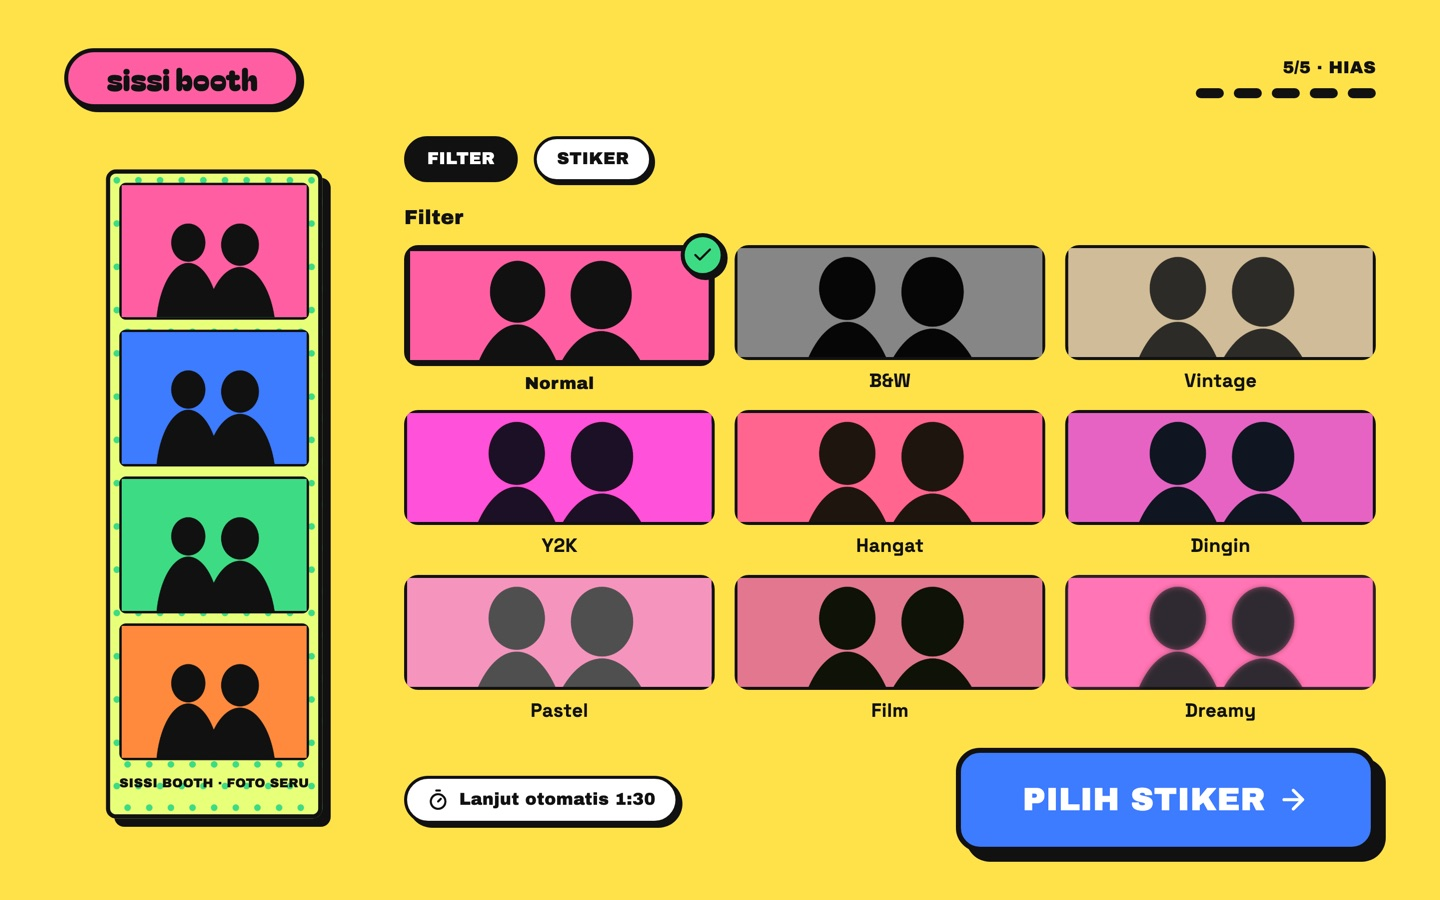
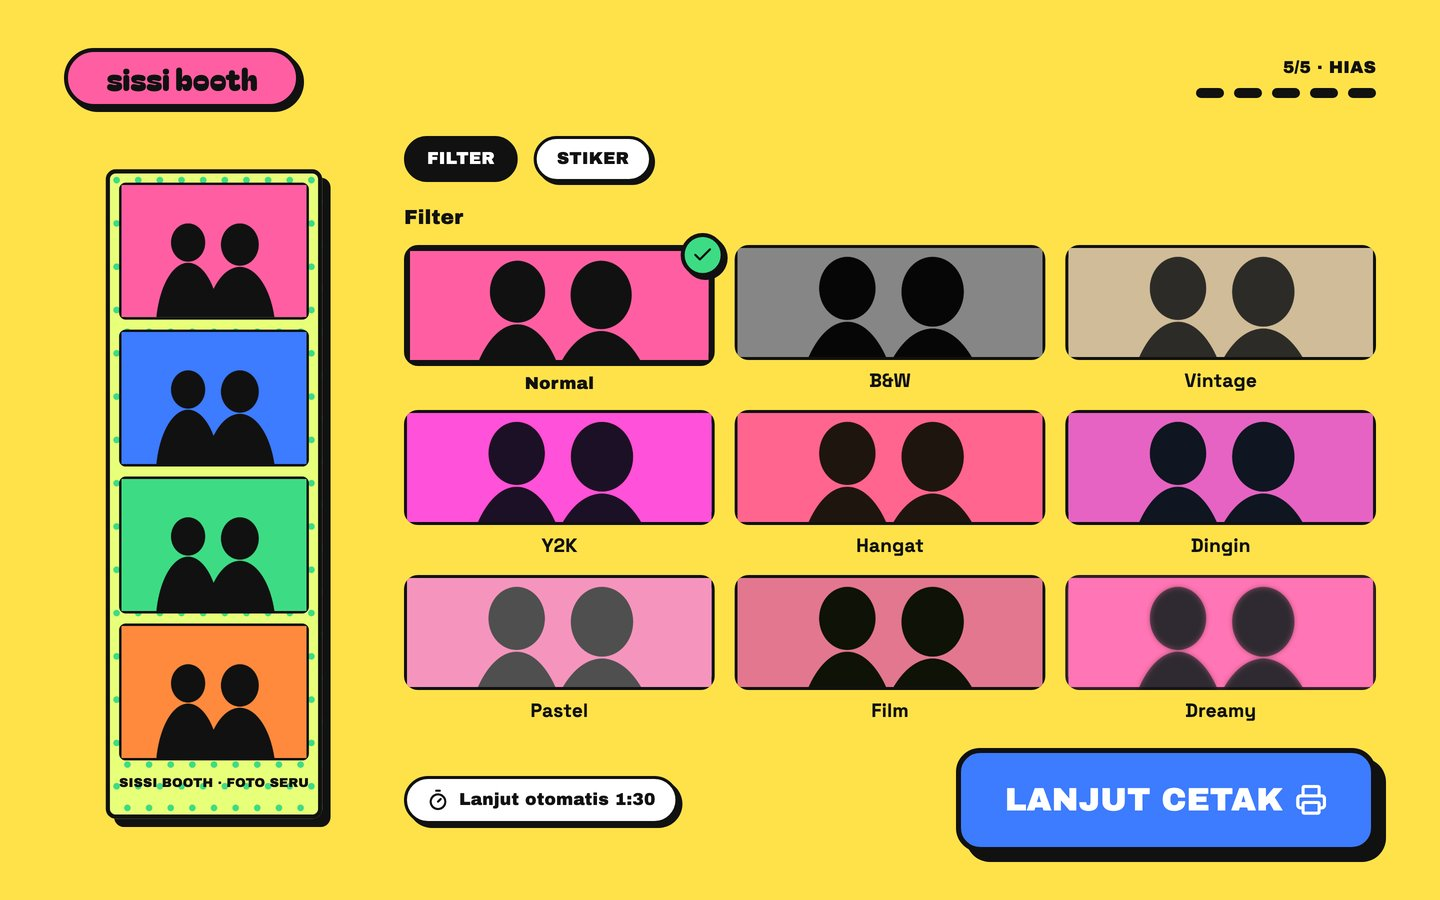
docs(panduan): sesuaikan hias, mode kiosk segera hadir, petunjuk admin

diff --git a/src/constants/guides.ts b/src/constants/guides.ts
@@ -154,7 +154,7 @@ export const guides: Guide[] = [
       {
         id: "hias",
         title: "Hias dengan filter & stiker",
-        body: "Pilih filter, semua foto langsung berubah warna. Lalu ketuk PILIH STIKER dan tempel stiker sesukamu. Beres? Ketuk SELESAI HIAS.",
+        body: "Pilih filter, semua foto langsung berubah warna. Mau stiker? Ketuk tab STIKER di atas dan tempel sesukamu. Beres? Ketuk LANJUT CETAK.",
         shots: [
           img("cara-foto", "hias-filter.jpg", "Layar hias: pilihan filter"),
           img("cara-foto", "stiker-cubit.jpg", "Layar hias: stiker diperbesar dengan dua jari"),
@@ -288,7 +288,7 @@ export const guides: Guide[] = [
       {
         id: "pojok",
         title: "Ketuk pojok kanan atas 5×",
-        body: "Di layar booth, ketuk pojok kanan atas 5 kali berturut-turut dengan cepat. Tombolnya memang tidak terlihat.",
+        body: "Di layar booth, ketuk pojok kanan atas 5 kali berturut-turut dengan cepat. Tombolnya memang tidak terlihat, supaya tamu tidak masuk. Selama booth belum diaktifkan, petunjuk kecil ini juga tampil di pojok kanan bawah layar tunggu.",
         shots: [img("masuk-admin", "pojok.jpg", "Pojok kanan atas layar booth tempat tombol admin tersembunyi")],
       },
       {
@@ -411,7 +411,8 @@ export const guides: Guide[] = [
       {
         id: "mode",
         title: "Pilih mode: KIOSK atau EVENT",
-        body: "KIOSK: tamu bayar QRIS sebelum foto, cocok untuk booth di mal atau kafe. EVENT: tamu foto gratis, cocok untuk nikahan, ulang tahun, dan acara kantor.",
+        body: "EVENT: tamu foto gratis, cocok untuk nikahan, ulang tahun, dan acara kantor. KIOSK: tamu bayar QRIS sebelum foto, cocok untuk booth di mal atau kafe.",
+        callout: { type: "info", title: "Mode kiosk segera hadir", text: "Pembayaran QRIS sedang disiapkan. Sementara itu booth memakai mode event; pilihan KIOSK aktif begitu QRIS siap." },
         shots: [img("sesi-mode", "event.jpg", "Pilihan mode KIOSK dan EVENT")],
       },
       {
@@ -632,7 +633,7 @@ export const guides: Guide[] = [
         title: "Atur harga (mode kiosk)",
         body: "Ketuk + atau − pada tiap layout; harga naik/turun Rp5.000 tiap ketukan dan langsung dipakai. Atur juga harga tambahan GIF untuk tamu yang memilih GIF Boomerang.",
         shots: [img("softcopy-harga", "harga-klasik.jpg", "Harga per layout"), img("softcopy-harga", "harga-gif.jpg", "Harga tambahan GIF Boomerang")],
-        callout: { type: "info", title: "Mode event", text: "Di mode event tamu foto gratis, jadi harga tidak dipakai." },
+        callout: { type: "info", title: "Mode event", text: "Di mode event tamu foto gratis, jadi harga tidak dipakai. Harga mulai berlaku setelah pembayaran QRIS (mode kiosk) siap." },
       },
     ],
     faqs: [

diff --git a/docs/PEKERJAAN.md b/docs/PEKERJAAN.md
@@ -16,6 +16,8 @@ _Tidak ada._
 
 ## Selesai
 
+- **2026-10-09** · Claude Opus 5.5 · Panduan disesuaikan perubahan aplikasi: hias (tab STIKER, LANJUT CETAK; gambar
+  `cara-foto/hias-filter.jpg` & `stiker-cubit.jpg` baru), mode kiosk "segera hadir" (sesi-mode & harga), petunjuk masuk admin.
 - **2026-10-09** · Claude Opus 5.5 · Panduan `/panduan/desain-template`: gambar ditangkap ulang (kartu teks bawah kini
   terlipat → "ketuk UBAH", kotak "Impor dari Canva / PNG"), poin teks bawah hanya untuk bingkai bawaan.
 - **2026-10-09** · Claude Opus 5.5 · **Panduan baru `/panduan/desain-template`** (#11 "Buat template di aplikasi", tanpa video):
